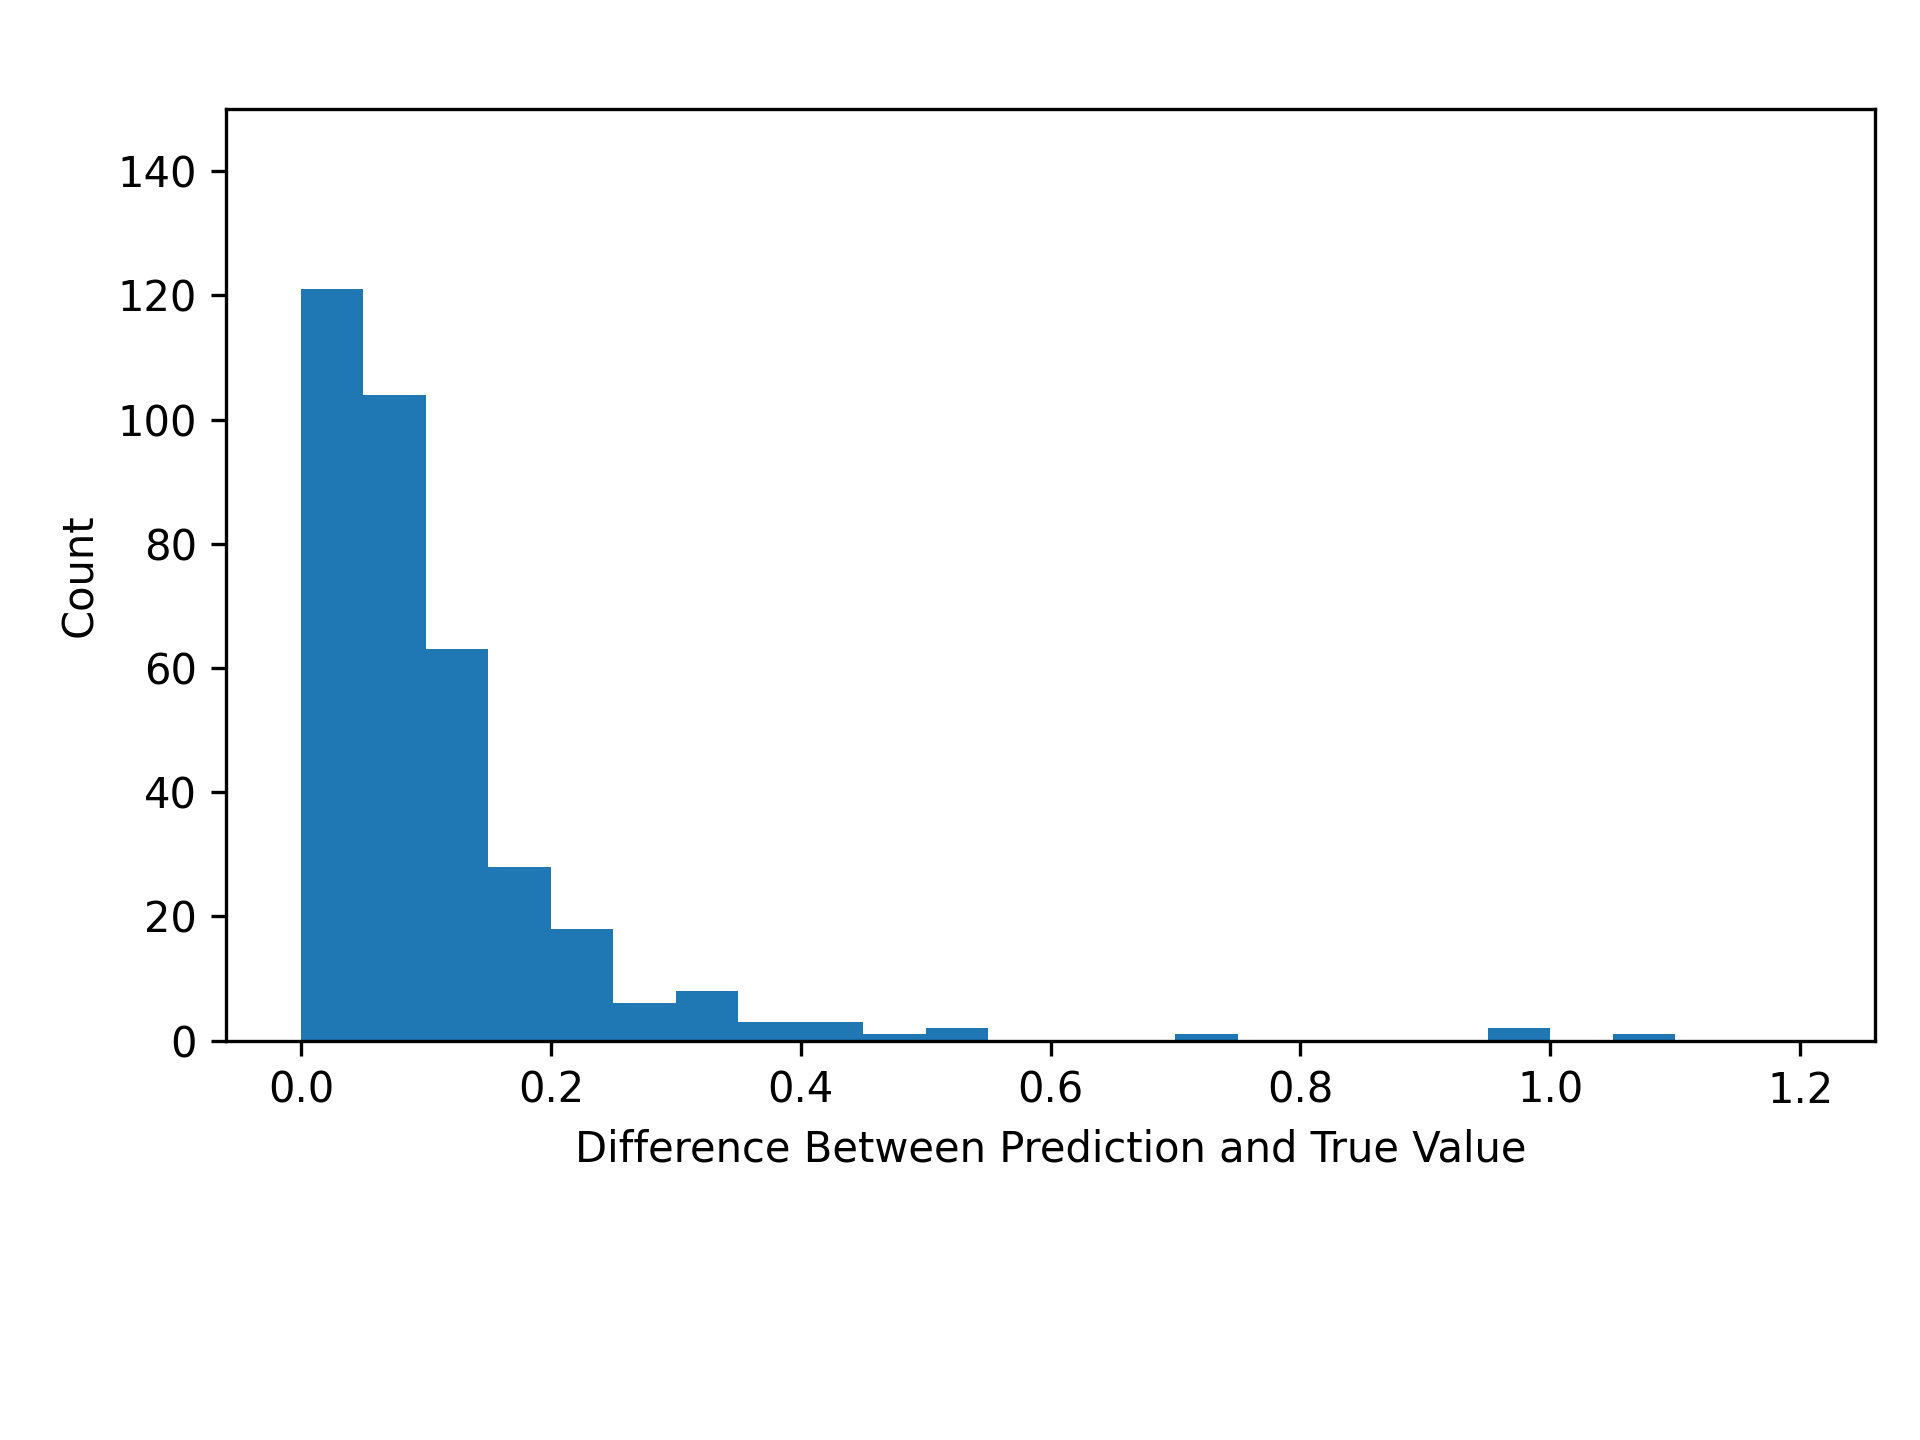
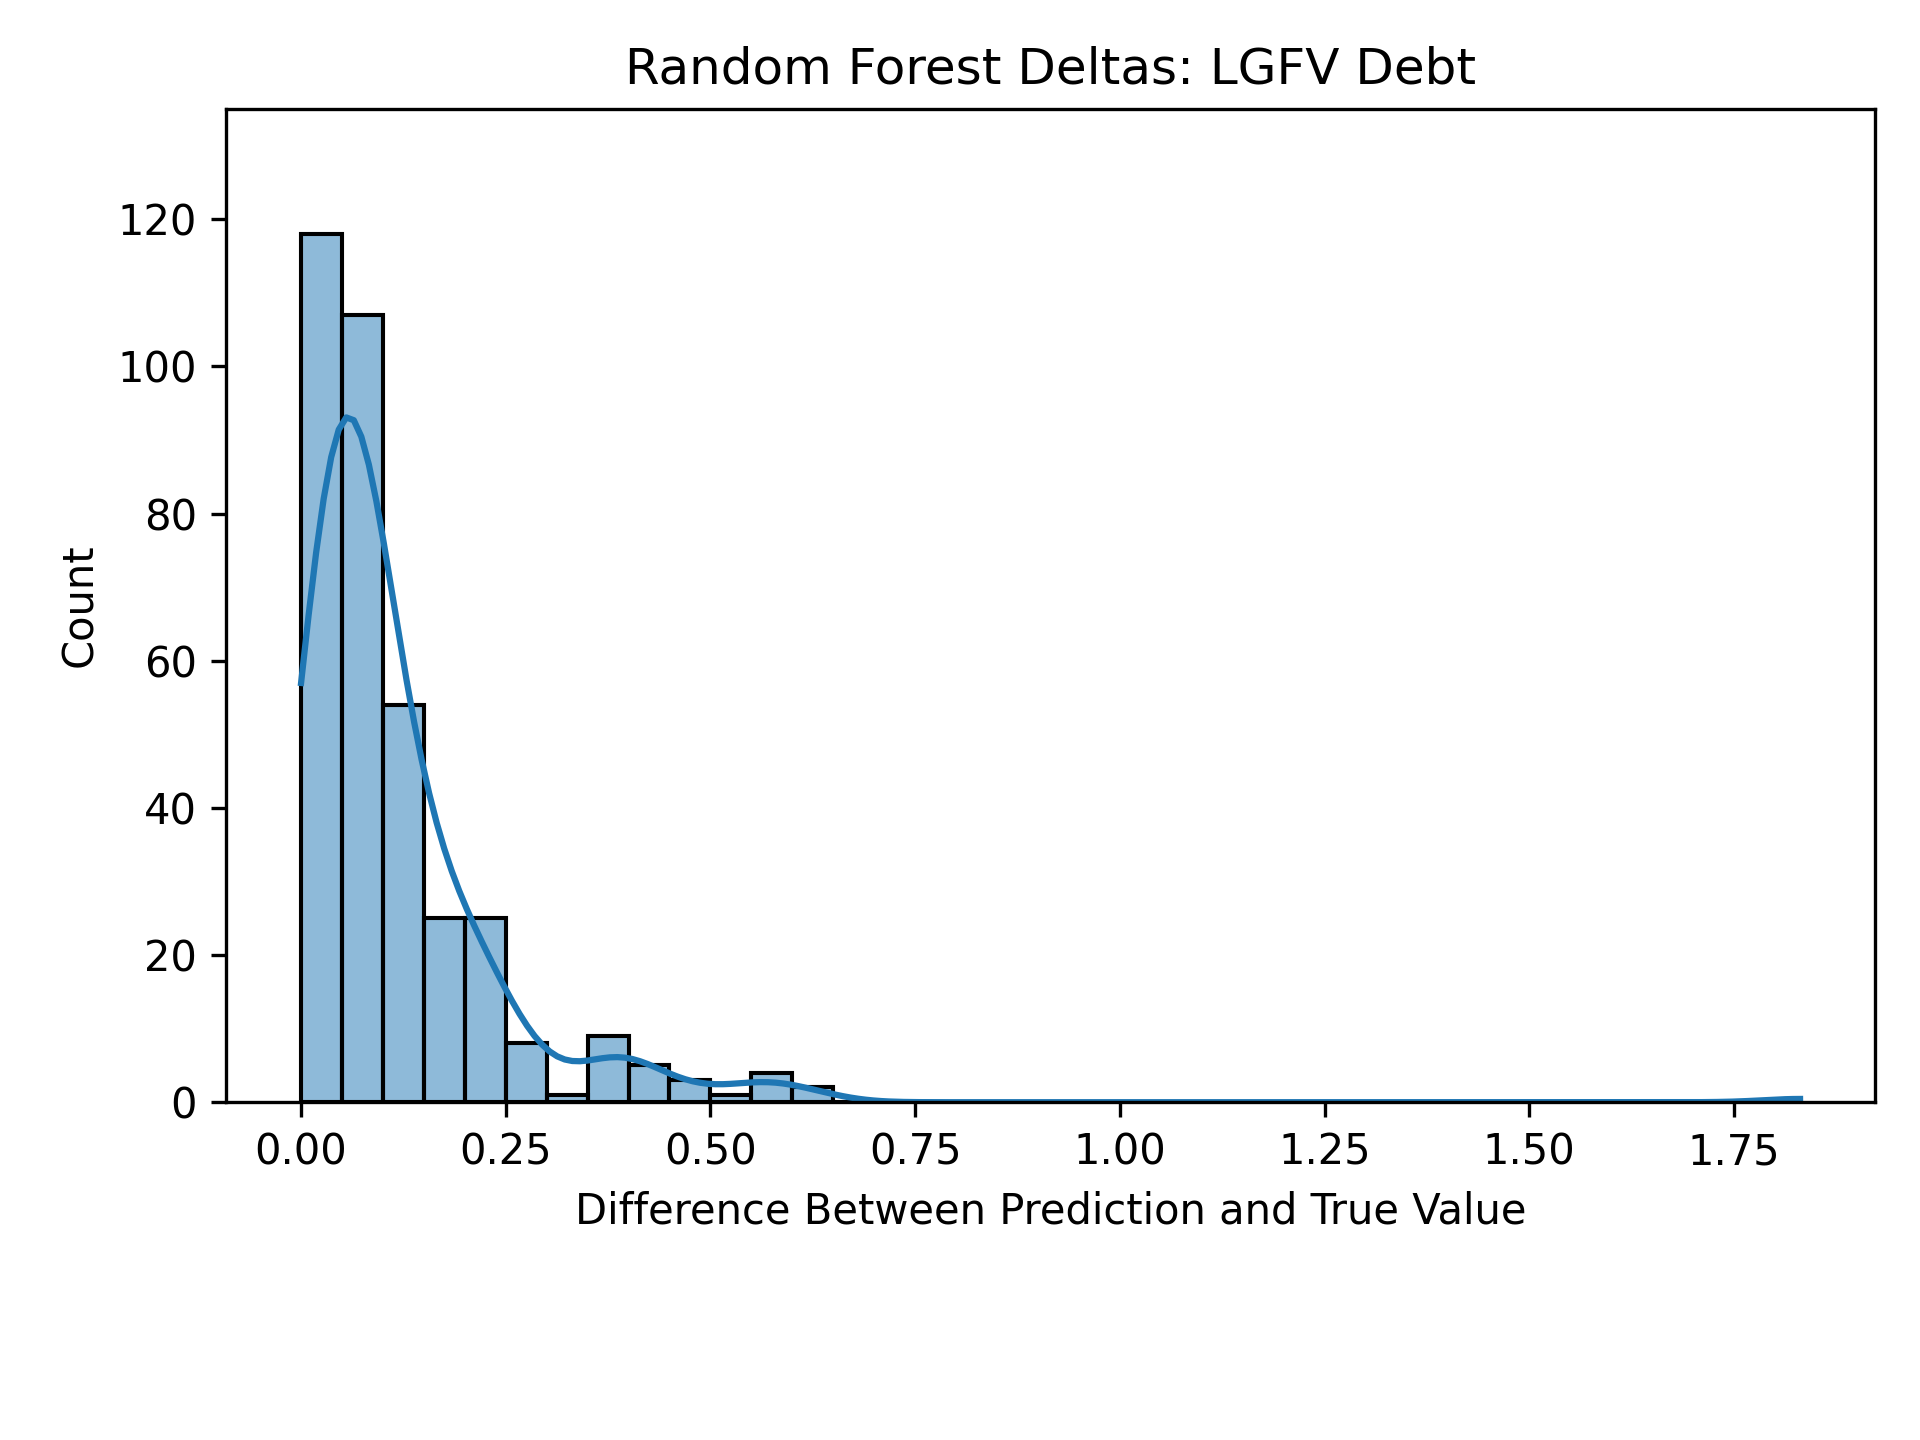
changed histograms
made histograms look nicer, added labels + KDE

diff --git a/Code/baseline_linear_regression_best_features.py b/Code/baseline_linear_regression_best_features.py
@@ -14,10 +14,10 @@ from itertools import combinations
 from sklearn.model_selection import train_test_split
 from sklearn.preprocessing import StandardScaler
 from sklearn.metrics import r2_score
-from sklearn.metrics import mean_squared_log_error
+import seaborn as sns
 
 
-df = pd.read_excel("merged_city_year_panel milestone updated.xlsx")
+df = pd.read_excel("../Cleaned Data/merged_city_year_panel milestone updated.xlsx")
 
 # this list contains all possible columns we might use as features or outcomes
 # we need to clean this data and remove NAN values 
@@ -171,7 +171,7 @@ def lin_reg(outcome, features, num):
     plt.ylabel(outcome)
     plt.title("True vs. Predicted Values")
     plt.legend()
-    plt.savefig("residual_plot_" + str(num) + ".png", dpi=300) 
+    plt.savefig("../Visualizations/residual_plot_" + str(num) + ".png", dpi=300) 
     plt.show()
 
     # histogram
@@ -179,16 +179,18 @@ def lin_reg(outcome, features, num):
     deltas = abs(predictions_original - y_test_original)
     # manually set bin size based on outcome
     if outcome == outcome1:
-        plt.hist(deltas, bins=np.arange(0, 1.25, 0.05))
-        plt.ylim(0, 150)
+        sns.histplot(deltas, bins=np.arange(0, 1.25, 0.05), kde=True, legend=False)
+        plt.ylim(0, 135)
+        plt.title("Linear Regression Deltas: LGFV Debt")
     elif outcome == outcome2:
-        plt.hist(deltas, bins=np.arange(0, 0.5, 0.025))
-        plt.ylim(0, 200)
+        sns.histplot(deltas, bins=np.arange(0, 0.5, 0.025), kde=True, legend=False)
+        plt.ylim(0, 185)
+        plt.title("Linear Regression Deltas: Urban Investment Bond")
     else:
-        plt.hist(deltas)
+        sns.histplot(deltas, kde=True)
     plt.xlabel("Difference Between Prediction and True Value")
     plt.ylabel("Count")
-    plt.savefig("lin_reg_histogram" + str(num) + ".png", dpi=300) 
+    plt.savefig("../Visualizations/lin_reg_histogram" + str(num) + ".png", dpi=300) 
     plt.show()
 
     return mse, r2, log_error

diff --git a/Code/random_forest_regressor_grid_search.py b/Code/random_forest_regressor_grid_search.py
@@ -15,7 +15,7 @@ from sklearn.pipeline import make_pipeline
 from sklearn.metrics import mean_squared_error
 from sklearn.model_selection import GridSearchCV
 
-df = pd.read_excel("merged_city_year_panel milestone updated.xlsx")
+df = pd.read_excel("../Cleaned Data/merged_city_year_panel milestone updated.xlsx")
 
 # this list contains all possible columns we might use as features or outcomes
 # we need to clean this data and remove NAN values 
@@ -96,20 +96,28 @@ def forest_grid_search(outcome, features, num):
         RandomForestRegressor()
     )
 
+# param_grid = {
+#            "randomforestregressor__n_estimators": [10, 100, 1000],
+#            "randomforestregressor__criterion": ["squared_error", "friedman_mse", "poisson"],
+#            "randomforestregressor__min_samples_split": [1.0, 2, 3],
+#            "randomforestregressor__min_samples_leaf": [1, 5]
+#        },
+
+    param_grid = {
+        "randomforestregressor__n_estimators": [10, 100, 1000],
+        "randomforestregressor__min_samples_leaf": [1, 5]
+    }
+
     # test different hyperparameters with grid_cv
     grid_cv = GridSearchCV(
         pipeline,
-        param_grid = {
-            "randomforestregressor__n_estimators": [10, 100, 1000],
-            "randomforestregressor__criterion": ["squared_error", "friedman_mse", "poisson"],
-            "randomforestregressor__min_samples_split": [1.0, 2, 3],
-            "randomforestregressor__min_samples_leaf": [1, 5]
-        },
+        param_grid,
         scoring="neg_mean_squared_error",
         cv=5
     )
 
     grid_cv.fit(x_train, y_train)
+    
     print(grid_cv.best_params_)
 
 # run forest_regression

diff --git a/Code/random_forest_regressor.py b/Code/random_forest_regressor.py
@@ -15,9 +15,10 @@ from sklearn.metrics import r2_score
 from sklearn.ensemble import RandomForestRegressor
 from sklearn.pipeline import make_pipeline
 from sklearn.metrics import mean_squared_error
+import seaborn as sns
 
 
-df = pd.read_excel("merged_city_year_panel milestone updated.xlsx")
+df = pd.read_excel("../Cleaned Data/merged_city_year_panel milestone updated.xlsx")
 
 # this list contains all possible columns we might use as features or outcomes
 # we need to clean this data and remove NAN values 
@@ -169,16 +170,18 @@ def random_forest_regressor(outcome, features, hyperparams, num):
     plt.clf()
     deltas = abs(predictions - y_test)
     if outcome == outcome1:
-        plt.hist(deltas, bins=np.arange(0, 1.25, 0.05))
-        plt.ylim(0, 150)
+        sns.histplot(deltas, bins=np.arange(0, 1.25, 0.05), kde=True, legend=False)
+        plt.ylim(0, 135)
+        plt.title("Random Forest Deltas: LGFV Debt")
     elif outcome == outcome2:
-        plt.hist(deltas, bins=np.arange(0, 0.5, 0.025))
-        plt.ylim(0, 200)
+        sns.histplot(deltas, bins=np.arange(0, 0.5, 0.025), kde=True, legend=False)
+        plt.ylim(0, 185)
+        plt.title("Random Forest Deltas: Urban Investment Bond")
     else:
-        plt.hist(deltas)
+        sns.histplot(deltas, kde=True)
     plt.xlabel("Difference Between Prediction and True Value")
     plt.ylabel("Count")
-    plt.savefig("random_forest_histogram" + str(num) + ".png", dpi=300) 
+    plt.savefig("../Visualizations/random_forest_histogram" + str(num) + ".png", dpi=300) 
     plt.show()
     return mse, r2, log_error
 
